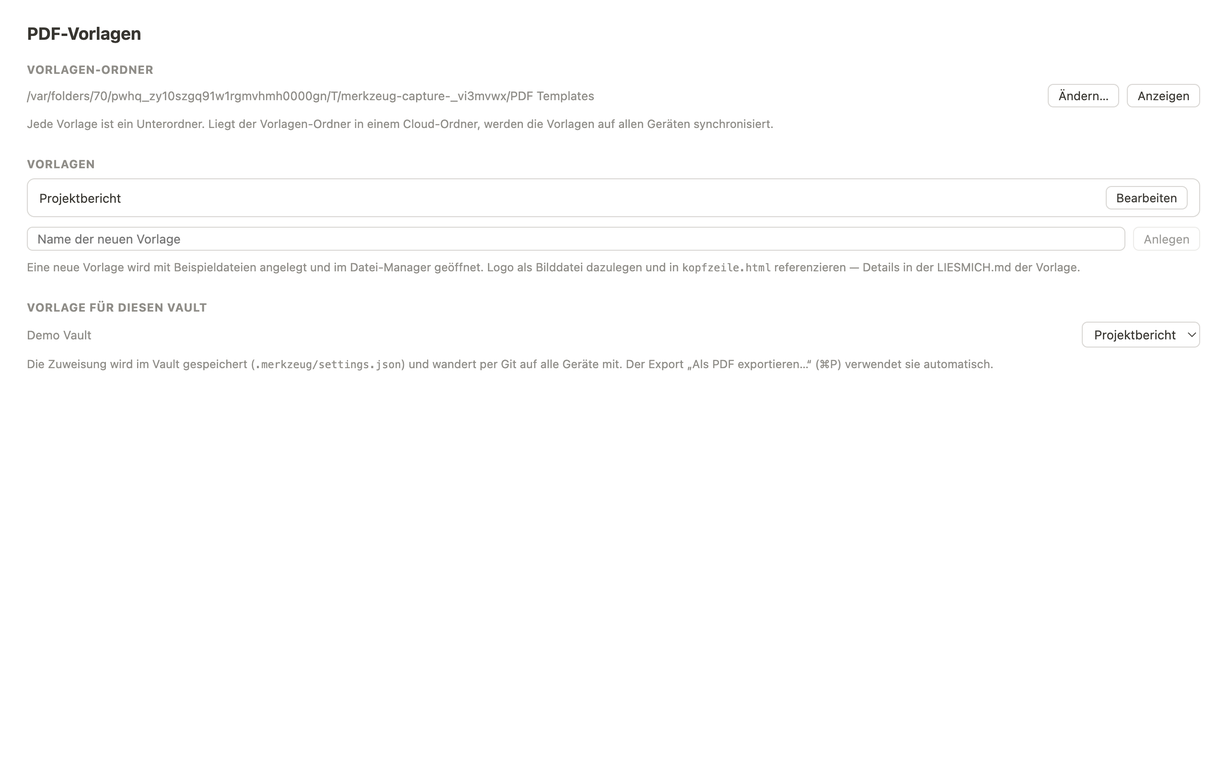
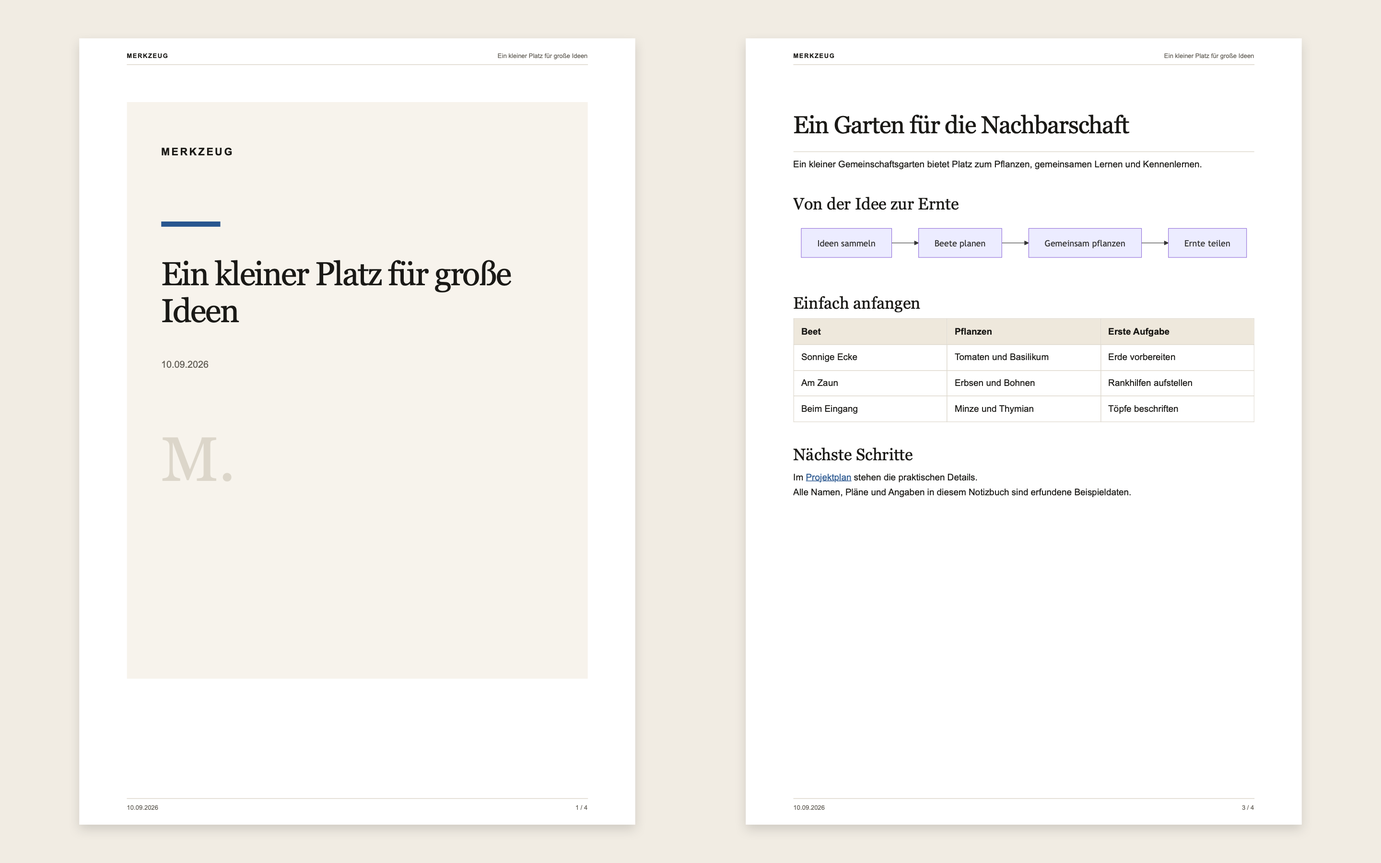
Ship a styled PDF starter template and show actual PDF output

diff --git a/website/de.html b/website/de.html
@@ -1,5 +1,5 @@
 <!doctype html><html lang="de"><head><meta charset="utf-8"><meta name="viewport" content="width=device-width,initial-scale=1"><meta name="description" content="Durchsuche, verbinde und bearbeite Markdown-Sammlungen – vom persönlichen Notizbuch bis zur Dokumentation deiner Coding-Agenten."><title>Dein Markdown. Im Zusammenhang. · Merkzeug</title><link rel="stylesheet" href="style.css"><link rel="icon" href="assets/icon.png"><link rel="canonical" href="https://merkzeug.creative-it.com/de.html"><meta property="og:title" content="Dein Markdown. Im Zusammenhang. · Merkzeug"><meta property="og:description" content="Durchsuche, verbinde und bearbeite Markdown-Sammlungen – vom persönlichen Notizbuch bis zur Dokumentation deiner Coding-Agenten."><meta property="og:type" content="website"><meta property="og:image" content="https://merkzeug.creative-it.com/assets/mac-de.png"></head><body><a class="skip" href="#content">Zum Inhalt</a><header><a class="brand" href="de.html"><img src="assets/icon.png" alt="" width="36" height="36"><strong>Merkzeug</strong></a><nav aria-label="Hauptnavigation"><a href="help-de.html">Hilfe</a><a href="https://support.apps.creative-it.com/?app=merkzeug&amp;lang=de">Support</a><a href="index.html" lang="en">English</a></nav></header><main id="content" class=""><section class="hero"><div class="eyebrow">In Entwicklung · Erste App-Store-Version in Vorbereitung</div><h1>Dein Markdown. Im Zusammenhang.</h1><p class="lead">Durchsuche, verbinde und bearbeite Markdown-Sammlungen – vom persönlichen Notizbuch bis zur Dokumentation deiner Coding-Agenten.</p><p>Finde dich in einer Sammlung von Dateien zurecht. Folge Links, lies Diagramme und bearbeite Inhalte visuell. Deine Notizen bleiben in den Ordnern und Repositories, zu denen sie gehören.</p><div class="actions"><a class="button" href="help-de.html">Merkzeug kennenlernen</a><a class="button secondary" href="#platforms">Mac · iPhone · iPad</a></div></section><section id="name" class="feature-section"><p class="eyebrow">Der Gedanke hinter dem Namen</p><h2>Ein Werkzeug fürs Merken.</h2><p><strong>Merken + Werkzeug = Merkzeug.</strong> Für Gedanken, die du festhalten, wiederfinden und weiterentwickeln möchtest. Aus vielen Markdown-Dateien wird eine Sammlung, in der du dich zurechtfindest.</p></section><section id="collections" class="feature-section"><h2>Ein Werkzeug. Zwei Ausgangspunkte.</h2><div class="grid two"><article><h3>Dein persönliches Notizbuch</h3><p>Gedanken, Projekte und Meeting-Notizen bilden eine Sammlung, die mit dir wächst. Nutze einen Ordner als Notizbuch, verknüpfe seine Notizen und halte ihren Kontext im Frontmatter fest. Dafür brauchst du kein Git-Repository.</p></article><article><h3>Dein Repository als Wissenssammlung</h3><p>READMEs, Architekturentscheidungen, Pläne und Agenten-Dokumentation liegen bereits neben deinem Code. Navigiere und bearbeite sie dort, wo sie sind. Links und integrierte Diagramme machen ihre Zusammenhänge sichtbar.</p></article></div><p>Merkzeug ist ein Lese- und Bearbeitungswerkzeug für deine Markdown-Sammlungen. Es erzeugt selbst keine Dokumentation und führt keinen Coding-Agenten aus.</p></section><nav class="section-nav" aria-label="Funktionen entdecken"><a href="#repositories">Repositories</a><a href="#pdf">PDF &amp; Vorlagen</a><a href="#frontmatter">Frontmatter</a><a href="#calendar">Kalender</a><a href="#ios-git">Git auf iOS</a><a href="#platforms">Plattformen</a><a href="#roadmap">Roadmap</a><a href="release-notes-de.html">Release Notes</a></nav><figure style="margin:0"><img class="preview" src="assets/mac-de.png" width="2560" height="1600" alt="Entwicklungsvorschau von Merkzeug auf dem Mac mit erfundenen Notizen"><figcaption>Entwicklungsvorschau von Merkzeug auf dem Mac mit erfundenen Notizen</figcaption></figure><div class="grid"><article><h2>Klar schreiben</h2><p>Überschriften, Listen, Aufgaben, Tabellen und Bilder — visuell bearbeiten, als Markdown speichern.</p></article><article><h2>Gedanken verbinden</h2><p>Verknüpfe Notizen und stelle Abläufe als Mermaid-Diagramme dar. Deine Ordner bleiben deine Struktur.</p></article><article><h2>Als PDF teilen</h2><p>Auf dem Mac exportierst du eine Notiz oder verknüpfte Notizen mit wiederverwendbaren PDF-Vorlagen.</p></article></div><section id="repositories" class="feature-section"><p class="eyebrow">Vom Repository zum lesbaren Zusammenhang</p><h2>Deine Agenten schreiben Markdown. Du erkennst den Zusammenhang.</h2><p class="lead">Architekturübersichten, Umsetzungspläne, Recherchen und Projektübergaben gehören zum Code. Merkzeug macht sie angenehm lesbar.</p><p>Öffne den Dokumentationsordner deines Repositorys, folge Verweisen zwischen Notizen und lies Mermaid-Diagramme direkt im Dokument. Überschriften, Tabellen und Aufgabenlisten geben erzeugten Markdown-Dateien eine klare Struktur. Prüfe das Ergebnis, ergänze Erklärungen und behalte deinen gewohnten Git-Workflow.</p><p>Zum Beispiel: Starte mit einer Übersicht, folge dem Link zu einer Architekturentscheidung, sieh dir das eingebettete Ablaufdiagramm an und exportiere am Desktop die Übersicht samt ausgewählten verlinkten Notizen als PDF.</p><figure><a href="assets/macos-de-diagram.png"><img class="preview" src="assets/macos-de-diagram.png" width="2560" height="1600" loading="lazy" alt="Mac-Entwicklungsvorschau mit einem Mermaid-Ablaufdiagramm in einer Projektnotiz"></a><figcaption>Das Diagramm ist Teil der Notiz. Mac-Entwicklungsvorschau mit erfundenen Beispieldaten; Bild anklicken für die volle Größe.</figcaption></figure><h3>Änderungen mit Git festhalten.</h3><p>Der Git-Bereich am Desktop zeigt den aktuellen Branch und geänderte Dateien und bietet Commit, Push und Pull. Auf iPhone und iPad übernimmt Working Copy die Git-Aktionen, während Merkzeug die gemeinsamen Dateien bearbeitet.</p><figure class="feature-shot"><a href="assets/macos-de-git.png"><img class="preview" src="assets/macos-de-git.png" width="2560" height="1600" loading="lazy" decoding="async" alt="Git-Bereich mit dem Branch main, einer geänderten Markdown-Datei und Aktionen für Commit, Push und Pull"></a><figcaption>Mac · Geänderte Dateien sehen und Git direkt im Notizbuch verwenden. Der Screenshot zeigt ein lokales Demo-Repository.</figcaption></figure></section>
-<section id="pdf" class="feature-section"><p class="eyebrow">PDF-Export &amp; Vorlagen · Desktop und IntelliJ-Vorschau</p><h2>Aus Arbeitsnotizen werden Dokumente zum Weitergeben.</h2><div class="grid two"><article><h3>Eine Notiz. Oder mehrere verknüpfte Dokumente.</h3><p>Exportiere eine einzelne Notiz oder hänge direkt verlinkte Markdown-Dokumente aus ihrer Ordnerhierarchie an. Verweise auf enthaltene Dokumente werden zu PDF-Sprungzielen. Ergänze ein anklickbares Inhaltsverzeichnis und einen eigenen Titel für das gemeinsame Dokument.</p><p>Mermaid-Diagramme werden vor dem Export gerendert. Breite Tabellen lösen eine Ausgabe im Querformat aus. Am Desktop kannst du auch mehrere ausgewählte Notizen als einzelne PDFs exportieren.</p></article><article><h3>Ein wiederverwendbares Layout pro Projekt.</h3><p>Gestalte Vorlagen mit Deckblatt, Logo, Kopf- und Fußzeilen, CSS und Seitenrändern. Füge Dokumenttitel, Datum und Seitenzahlen ein. Am Desktop ordnest du einem Notizbuch eine Vorlage zu; in IntelliJ wählst du einen Vorlagenordner für das Projekt.</p><p>Vorlagen sind gewöhnliche Dateien und lassen sich mit Git versionieren. Der PDF-Export läuft lokal. Auf iPhone und iPad ist er noch nicht verfügbar.</p></article></div><details><summary>Was gehört in eine PDF-Vorlage?</summary><p>Eine Vorlage ist ein Ordner mit diesen optionalen Dateien:</p><ul><li><code>deckblatt.html</code> — Deckblatt</li><li><code>kopfzeile.html</code> und <code>fusszeile.html</code> — Kopf- und Fußzeile</li><li><code>stil.css</code> — Dokumentgestaltung</li><li><code>vorlage.json</code> — Seitenränder</li></ul><p>Lege Logos im selben Ordner ab und verweise mit relativen Bildpfaden darauf. <code>{{titel}}</code> und <code>{{datum}}</code> setzen Titel und Exportdatum ein.</p></details><p><a href="help-de.html">PDF-Export und Vorlagen im Desktop-Handbuch kennenlernen →</a></p><figure class="feature-shot"><a href="assets/macos-de-pdf.png"><img class="preview" src="assets/macos-de-pdf.png" width="2560" height="1600" loading="lazy" decoding="async" alt="PDF-Vorlagen-Einstellungen mit einer dem Demo-Notizbuch zugewiesenen Projektbericht-Vorlage"></a><figcaption>Mac · Eine wiederverwendbare PDF-Vorlage für dein Notizbuch auswählen. Screenshot in voller Größe öffnen.</figcaption></figure></section>
+<section id="pdf" class="feature-section"><p class="eyebrow">PDF-Export &amp; Vorlagen · Desktop und IntelliJ-Vorschau</p><h2>Aus Arbeitsnotizen werden Dokumente zum Weitergeben.</h2><div class="grid two"><article><h3>Eine Notiz. Oder mehrere verknüpfte Dokumente.</h3><p>Exportiere eine einzelne Notiz oder hänge direkt verlinkte Markdown-Dokumente aus ihrer Ordnerhierarchie an. Verweise auf enthaltene Dokumente werden zu PDF-Sprungzielen. Ergänze ein anklickbares Inhaltsverzeichnis und einen eigenen Titel für das gemeinsame Dokument.</p><p>Mermaid-Diagramme werden vor dem Export gerendert. Breite Tabellen lösen eine Ausgabe im Querformat aus. Am Desktop kannst du auch mehrere ausgewählte Notizen als einzelne PDFs exportieren.</p></article><article><h3>Ein wiederverwendbares Layout pro Projekt.</h3><p>Gestalte Vorlagen mit Deckblatt, Logo, Kopf- und Fußzeilen, CSS und Seitenrändern. Füge Dokumenttitel, Datum und Seitenzahlen ein. Am Desktop ordnest du einem Notizbuch eine Vorlage zu; in IntelliJ wählst du einen Vorlagenordner für das Projekt.</p><p>Vorlagen sind gewöhnliche Dateien und lassen sich mit Git versionieren. Der PDF-Export läuft lokal. Auf iPhone und iPad ist er noch nicht verfügbar.</p></article></div><p>Starte mit der mitgelieferten Merkzeug-Vorlage. Passe eine Kopie an deine Farben und dein Logo an oder nutze die enthaltene Anleitung mit einem Agenten.</p><details><summary>Was gehört in eine PDF-Vorlage?</summary><p>Eine Vorlage ist ein Ordner mit diesen optionalen Dateien:</p><ul><li><code>deckblatt.html</code> — Deckblatt</li><li><code>kopfzeile.html</code> und <code>fusszeile.html</code> — Kopf- und Fußzeile</li><li><code>stil.css</code> — Dokumentgestaltung</li><li><code>vorlage.json</code> — Seitenränder</li></ul><p>Lege Logos im selben Ordner ab und verweise mit relativen Bildpfaden darauf. <code>{{titel}}</code> und <code>{{datum}}</code> setzen Titel und Exportdatum ein.</p></details><p><a href="help-de.html">PDF-Export und Vorlagen im Desktop-Handbuch kennenlernen →</a></p><figure class="feature-shot"><a href="assets/macos-de-pdf.png"><img class="preview" src="assets/macos-de-pdf.png" width="2880" height="1800" loading="lazy" decoding="async" alt="Deckblatt und Diagrammseite eines mit der Merkzeug-Vorlage exportierten PDFs"></a><figcaption>Echtes PDF-Ergebnis · Deckblatt und verlinkte Projektnotiz, exportiert mit der mitgelieferten Merkzeug-Vorlage. Bild für die volle Größe auswählen.</figcaption></figure></section>
 <section id="frontmatter" class="feature-section"><p class="eyebrow">Frontmatter</p><h2>Gib deinen Notizen Kontext.</h2><div class="grid two"><div><p>Strukturierte Metadaten stehen am Anfang deiner Markdown-Datei. Klappe den Frontmatter-Bereich auf, bearbeite YAML und ergänze Felder für Titel, Tags oder eigene Projektinformationen.</p><p>Auch die Exporteinstellungen bleiben beim Dokument: <code>pdf-linked-title</code> benennt das gemeinsame PDF, <code>pdf-toc</code> aktiviert sein Inhaltsverzeichnis, <code>pdf-exclude</code> lässt ausgewählte verlinkte Notizen aus und <code>language</code> bestimmt die Sprache der Inhaltsüberschrift.</p></div><div><pre aria-label="Beispiel für YAML-Frontmatter"><code>---
 title: Systemübersicht
 tags: [architektur, review]

diff --git a/website/index.html b/website/index.html
@@ -1,5 +1,5 @@
 <!doctype html><html lang="en"><head><meta charset="utf-8"><meta name="viewport" content="width=device-width,initial-scale=1"><meta name="description" content="Explore and edit Markdown collections — from personal notebooks to documentation written by coding agents."><title>Your Markdown. Connected. · Merkzeug</title><link rel="stylesheet" href="style.css"><link rel="icon" href="assets/icon.png"><link rel="canonical" href="https://merkzeug.creative-it.com/"><meta property="og:title" content="Your Markdown. Connected. · Merkzeug"><meta property="og:description" content="Explore and edit Markdown collections — from personal notebooks to documentation written by coding agents."><meta property="og:type" content="website"><meta property="og:image" content="https://merkzeug.creative-it.com/assets/mac-en.png"></head><body><a class="skip" href="#content">Skip to content</a><header><a class="brand" href="index.html"><img src="assets/icon.png" alt="" width="36" height="36"><strong>Merkzeug</strong></a><nav aria-label="Main navigation"><a href="help-en.html">Help</a><a href="https://support.apps.creative-it.com/?app=merkzeug&amp;lang=en">Support</a><a href="de.html" lang="de">Deutsch</a></nav></header><main id="content" class=""><section class="hero"><div class="eyebrow">In development · First App Store release in preparation</div><h1>Your Markdown. Connected.</h1><p class="lead">Explore and edit Markdown collections — from personal notebooks to documentation written by coding agents.</p><p>Find your way through a collection of files. Follow links, read diagrams and edit visually. Your notes stay in the folders and repositories where they belong.</p><div class="actions"><a class="button" href="help-en.html">Explore the guide</a><a class="button secondary" href="#platforms">Mac · iPhone · iPad</a></div></section><section id="name" class="feature-section"><p class="eyebrow">The name behind the tool</p><h2>Merkzeug — a tool for thoughts worth keeping.</h2><p>The name brings together the German words <em>merken</em> — to remember — and <em>Werkzeug</em> — tool. A tool for keeping ideas, finding them again and making something of them.</p></section><section id="collections" class="feature-section"><h2>One tool. Two places to begin.</h2><div class="grid two"><article><h3>Your personal notebook</h3><p>Ideas, projects and meeting notes form a collection that grows with you. Use a folder as your notebook, connect its notes and keep their context with frontmatter. No Git repository is required.</p></article><article><h3>Your repository as a knowledge collection</h3><p>READMEs, architecture decisions, plans and agent-written documentation already live beside your code. Navigate and edit them where they are, using links and integrated diagrams to see how they fit together.</p></article></div><p>Merkzeug is a reader and editor for your Markdown collections. It does not generate documentation or run a coding agent.</p></section><nav class="section-nav" aria-label="Explore features"><a href="#repositories">Repositories</a><a href="#pdf">PDF &amp; Templates</a><a href="#frontmatter">Frontmatter</a><a href="#calendar">Calendar</a><a href="#ios-git">Git on iOS</a><a href="#platforms">Platforms</a><a href="#roadmap">Roadmap</a><a href="release-notes-en.html">Release notes</a></nav><figure style="margin:0"><img class="preview" src="assets/mac-en.png" width="2560" height="1600" alt="Development preview of Merkzeug on Mac with fictional notes"><figcaption>Development preview of Merkzeug on Mac with fictional notes</figcaption></figure><div class="grid"><article><h2>Write with clarity</h2><p>Headings, lists, tasks, tables and images — with visual editing and Markdown underneath.</p></article><article><h2>Connect your thinking</h2><p>Link notes and turn processes into Mermaid diagrams. Your folders remain your structure.</p></article><article><h2>Share as a PDF</h2><p>On Mac, export a note or a collection of linked notes with reusable PDF templates.</p></article></div><section id="repositories" class="feature-section"><p class="eyebrow">From your repository to a readable story</p><h2>Your agents write Markdown. You make sense of it.</h2><p class="lead">Architecture overviews, implementation plans, research and project handovers belong beside the code. Merkzeug makes them comfortable to read.</p><p>Open your repository’s documentation folder, follow links between notes and read Mermaid diagrams directly in the document. Headings, tables and task lists give generated Markdown a clear visual structure. Review the result, edit the explanation and keep the files in your existing Git workflow.</p><p>For example: start with an overview, follow a link to a design decision, inspect its embedded flowchart, then export the overview and selected linked notes as a PDF on desktop.</p><figure><a href="assets/macos-en-diagram.png"><img class="preview" src="assets/macos-en-diagram.png" width="2560" height="1600" loading="lazy" alt="Mac development preview showing a Mermaid flowchart inside a project note"></a><figcaption>A diagram is part of the note. Mac development preview with fictional demo content; select the image to see it full size.</figcaption></figure><h3>Keep changes in Git.</h3><p>The desktop Git panel shows the current branch and changed files, with commit, push and pull actions. On iPhone and iPad, Working Copy handles Git while Merkzeug edits the shared files.</p><figure class="feature-shot"><a href="assets/macos-en-git.png"><img class="preview" src="assets/macos-en-git.png" width="2560" height="1600" loading="lazy" decoding="async" alt="Git panel showing the main branch, a changed Markdown file and commit, push and pull controls"></a><figcaption>Mac · Review changed files and use Git from your notebook. The screenshot uses a local demo repository.</figcaption></figure></section>
-<section id="pdf" class="feature-section"><p class="eyebrow">PDF export &amp; templates · Desktop and IntelliJ preview</p><h2>Turn working notes into a document worth sharing.</h2><div class="grid two"><article><h3>One note. Or a linked document set.</h3><p>Export a single note or append directly linked Markdown documents from its folder hierarchy. Links to included documents become PDF destinations. Add a clickable table of contents and give the combined document its own title.</p><p>Mermaid diagrams render before export. Wide tables trigger landscape output. Desktop also lets you export several selected notes as individual PDFs.</p></article><article><h3>A reusable look for each project.</h3><p>Build a template with a cover, logo, page headers, footers, CSS and page margins. Include the document title, date and page numbers. On desktop, assign a template to a notebook; in IntelliJ, select a template folder for the project.</p><p>Templates are ordinary files, so you can version them alongside your work. PDF export runs locally. It is not yet available on iPhone or iPad.</p></article></div><details><summary>What goes into a PDF template?</summary><p>Each template is a folder containing any of these optional files. The filenames retain their German names for compatibility.</p><ul><li><code>deckblatt.html</code> — cover page</li><li><code>kopfzeile.html</code> and <code>fusszeile.html</code> — page header and footer</li><li><code>stil.css</code> — document styling</li><li><code>vorlage.json</code> — page margins</li></ul><p>Keep logos in that folder and reference them with relative image paths. Use <code>{{titel}}</code> and <code>{{datum}}</code> for the title and export date.</p></details><p><a href="help-en.html">Explore PDF export and template setup in the desktop guide →</a></p><figure class="feature-shot"><a href="assets/macos-en-pdf.png"><img class="preview" src="assets/macos-en-pdf.png" width="2560" height="1600" loading="lazy" decoding="async" alt="PDF template settings with a Project report template assigned to the demo notebook"></a><figcaption>Mac · Choose a reusable PDF template for your notebook. Open the screenshot at full size.</figcaption></figure></section>
+<section id="pdf" class="feature-section"><p class="eyebrow">PDF export &amp; templates · Desktop and IntelliJ preview</p><h2>Turn working notes into a document worth sharing.</h2><div class="grid two"><article><h3>One note. Or a linked document set.</h3><p>Export a single note or append directly linked Markdown documents from its folder hierarchy. Links to included documents become PDF destinations. Add a clickable table of contents and give the combined document its own title.</p><p>Mermaid diagrams render before export. Wide tables trigger landscape output. Desktop also lets you export several selected notes as individual PDFs.</p></article><article><h3>A reusable look for each project.</h3><p>Start with the included Merkzeug template, then adapt its cover, page headers, footers, CSS and margins. Add your logo or let an agent customize a copy using the included guide. Include the document title, date and page numbers. On desktop, assign a template to a notebook; in IntelliJ, select a template folder for the project.</p><p>Templates are ordinary files, so you can version them alongside your work. PDF export runs locally. It is not yet available on iPhone or iPad.</p></article></div><details><summary>What goes into a PDF template?</summary><p>Each template is a folder containing any of these optional files. The filenames retain their German names for compatibility.</p><ul><li><code>deckblatt.html</code> — cover page</li><li><code>kopfzeile.html</code> and <code>fusszeile.html</code> — page header and footer</li><li><code>stil.css</code> — document styling</li><li><code>vorlage.json</code> — page margins</li></ul><p>Keep logos in that folder and reference them with relative image paths. Use <code>{{titel}}</code> and <code>{{datum}}</code> for the title and export date.</p></details><p><a href="help-en.html">Explore PDF export and template setup in the desktop guide →</a></p><figure class="feature-shot"><a href="assets/macos-en-pdf.png"><img class="preview" src="assets/macos-en-pdf.png" width="2880" height="1800" loading="lazy" decoding="async" alt="Cover and diagram page from a PDF exported with the bundled Merkzeug template"></a><figcaption>Actual PDF output · A cover and linked project note, exported with the included Merkzeug template. Select the image to see it full size.</figcaption></figure></section>
 <section id="frontmatter" class="feature-section"><p class="eyebrow">Frontmatter</p><h2>Give your notes context.</h2><div class="grid two"><div><p>Keep structured metadata at the top of your Markdown file. Expand the frontmatter panel to edit YAML and add fields for titles, tags or your own project information.</p><p>Export settings live with the document too: <code>pdf-linked-title</code> names a combined PDF, <code>pdf-toc</code> enables its contents page, <code>pdf-exclude</code> leaves selected linked notes out, and <code>language</code> controls the contents heading’s language.</p></div><div><pre aria-label="Example YAML frontmatter"><code>---
 title: System overview
 tags: [architecture, review]

diff --git a/crossplatform/src/main/templates.ts b/crossplatform/src/main/templates.ts
@@ -3,6 +3,7 @@ import { app } from 'electron'
 import { existsSync, mkdirSync, readdirSync, readFileSync, writeFileSync } from 'node:fs'
 import { dirname, extname, join } from 'node:path'
 import type { PdfTemplate, PdfTemplateMargins } from '../shared/types'
+import { installTemplate } from './templateFiles.mjs'
 import { getStoredTemplatesRoot } from './settings'
 
 /** Ränder, wenn Kopf-/Fußzeile Platz brauchen und die Vorlage nichts vorgibt (mm) */
@@ -30,6 +31,7 @@ export function templatesRoot(): string {
 
 export function listTemplates(): string[] {
   try {
+    try { ensureStarterTemplate() } catch { /* Read-only roots may still contain usable templates. */ }
     return readdirSync(templatesRoot(), { withFileTypes: true })
       .filter((e) => e.isDirectory() && !e.name.startsWith('.'))
       .map((e) => e.name)
@@ -108,40 +110,16 @@ export function loadTemplate(name: string): PdfTemplate | null {
   return template
 }
 
-const DEFAULT_HEADER = `<!-- Header: use inline CSS. Relative image URLs are embedded on export. -->
-<div style="width:100%;margin:0 10mm;font:9px Arial;color:#666;display:flex;justify-content:space-between">
-  <span>{{titel}}</span><span>Your organization</span>
-</div>`
-const DEFAULT_FOOTER = `<div style="width:100%;margin:0 10mm;font:9px Arial;color:#666;display:flex;justify-content:space-between">
-  <span>{{datum}}</span><span>Page <span class="pageNumber"></span> of <span class="totalPages"></span></span>
-</div>`
-const DEFAULT_COVER_EXAMPLE = `<!-- Rename to deckblatt.html to enable this cover. -->
-<div class="cover" style="padding-top:70mm;text-align:center;font-family:Arial,sans-serif">
-  <h1>{{titel}}</h1><p>{{datum}}</p>
-</div>`
-const DEFAULT_CSS = `/* Optional PDF content styles, for example:
-.pdf-content .milkdown .ProseMirror { font-size: 11pt; }
-html.pdf-landscape .cover { padding-top: 30mm !important; }
-*/`
-const DEFAULT_CONFIG = '{"margins":{"top":24,"bottom":18,"left":10,"right":10}}\n'
-const DEFAULT_README = `# Merkzeug PDF template
+/** Bundled source stays read-only; user copies are never upgraded in place. */
+function starterDirectory(): string {
+  return app.isPackaged
+    ? join(process.resourcesPath, 'pdf-templates', 'Merkzeug')
+    : join(app.getAppPath(), '..', 'resources', 'pdf-templates', 'Merkzeug')
+}
 
-All files are optional. Existing German filenames remain part of the file format:
-
-- kopfzeile.html: page header
-- fusszeile.html: page footer
-- deckblatt.html: cover page (rename deckblatt-beispiel.html to enable it)
-- stil.css: additional content styles
-- vorlage.json: page margins in millimetres
-
-HTML placeholders: {{titel}} is the export title; {{datum}} is the export date.
-Use pageNumber and totalPages span classes in headers and footers for page numbers.
-Place logo images here and reference them with relative URLs. Headers and footers
-require inline CSS. Use html.pdf-landscape in stil.css for landscape-specific rules.
-
-Assign this template through Merkzeug Settings, or choose this folder in IntelliJ.
-Desktop assignments are stored in .merkzeug/settings.json inside the vault.
-`
+function ensureStarterTemplate(): void {
+  installTemplate(starterDirectory(), join(templatesRoot(), 'Merkzeug'))
+}
 
 /** Legt eine neue Vorlage mit Beispieldateien an. Wirft bei Namenskonflikt. */
 export function createTemplate(name: string): string {
@@ -151,13 +129,7 @@ export function createTemplate(name: string): string {
   }
   const dir = join(templatesRoot(), clean)
   if (existsSync(dir)) throw new Error(`${translate("The template “")}${clean}${translate("” already exists.")}`)
-  mkdirSync(dir, { recursive: true })
-  writeFileSync(join(dir, 'kopfzeile.html'), DEFAULT_HEADER)
-  writeFileSync(join(dir, 'fusszeile.html'), DEFAULT_FOOTER)
-  writeFileSync(join(dir, 'deckblatt-beispiel.html'), DEFAULT_COVER_EXAMPLE)
-  writeFileSync(join(dir, 'stil.css'), DEFAULT_CSS)
-  writeFileSync(join(dir, 'vorlage.json'), DEFAULT_CONFIG)
-  writeFileSync(join(dir, 'README.md'), DEFAULT_README)
+  installTemplate(starterDirectory(), dir)
   return dir
 }
 

diff --git a/website/help-de.html b/website/help-de.html
@@ -465,4 +465,13 @@ Fehlermeldung ab statt zu warten.</li>
 <h2 id="support-und-rückmeldungen">Support und Rückmeldungen</h2>
 <p>Wähle <strong>Hilfe → Support kontaktieren…</strong>, um das Supportformular mit Merkzeug, Sprache, Variante und App-Version zu öffnen. Die App-Informationen kannst du vor dem Senden abwählen. Notizinhalte und Dateipfade werden nicht automatisch angehängt.</p>
 <p><a href="https://support.apps.creative-it.com/?app=merkzeug&lang=de">Merkzeug App Support kontaktieren</a>. Nenne App-Version, Betriebssystem und Schritte zum Nachstellen des Problems. Verwende fiktive Beispiele und sende keine vertraulichen Notizen.</p>
+<h2 id="pdf-startvorlage">PDF-Startvorlage</h2>
+<p>Merkzeug enthält die fertige PDF-Vorlage <strong>Merkzeug</strong>: ein Deckblatt in warmem Papierweiß, Serifenschrift für Überschriften, blaue Akzente, Kopfzeilen und nummerierte Fußzeilen. Wähle sie unter <strong>Einstellungen → Vorlage für diesen Vault</strong> aus. Bestehende Vaults behalten ihre Auswahl, auch <strong>Keine Vorlage</strong>. <strong>Erstellen</strong> legt eine bearbeitbare Kopie unter einem neuen Namen an; <strong>Bearbeiten</strong> öffnet ihren Ordner. App-Updates überschreiben deine Anpassungen nicht. Auch in einem neu gewählten Vorlagenordner wird die Standardvorlage bereitgestellt, sofern er beschreibbar ist.</p>
+<p>Entferne <code>deckblatt.html</code> oder benenne die Datei um, wenn du kein Deckblatt möchtest. Passe <code>stil.css</code> für Dokumentstile sowie <code>kopfzeile.html</code> / <code>fusszeile.html</code> für Inline-Stile der Kopf- und Fußzeilen an. Die Seitenränder stehen in <code>vorlage.json</code>. Die deutschen Dateinamen und Platzhalter <code>{{titel}}</code> / <code>{{datum}}</code> gehören zum gemeinsamen Dateiformat. Lege Logos im Vorlagenordner ab und verwende relative Bildpfade. Die Vorlage funktioniert auch in IntelliJ: <strong>PDF-Vorlage…</strong> öffnet zunächst den mitgelieferten Vorlagenordner, wenn keine andere Vorlage ausgewählt ist. Auf iOS ist PDF-Export noch nicht verfügbar.</p>
+<h3 id="vorlage-mit-einem-agenten-anpassen">Vorlage mit einem Agenten anpassen</h3>
+<p>Erstelle zuerst eine Kopie und übergib dem Agenten diesen Ordner mit folgendem Prompt:</p>
+<blockquote>
+<p>Lies README.md und alle fünf Vorlagendateien in diesem Ordner. Passe diese Kopie an meinen Stil an: [FARBEN], [SCHRIFTEN] und [LOKALER LOGO-PFAD]. Behalte Dateinamen, Titel-/Datumsplatzhalter und Chromium-Seitennummern bei. Verwende Inline-CSS für Kopf-/Fußzeilen und begrenze Dokumentstile auf PDF-Selektoren. Nutze lokale Dateien, keine Skripte oder Netzwerkabhängigkeiten. Unterstütze A4 im Hoch- und Querformat ohne abgeschnittene Inhalte. Dokumentiere Änderungen in README.md. Exportiere zur Prüfung Notizen mit langem Titel, Überschriften, Links, Code, einer Tabelle und einem Diagramm und kontrolliere jede PDF-Seite.</p>
+</blockquote>
+<p>Die README der Vorlage enthält das Dateiformat und einen wiederverwendbaren Prompt. Prüfe das Ergebnis durch einen Export in Merkzeug: Eine Browser-Vorschau allein prüft keine Seitenumbrüche. <strong>Vorlagen-Anleitung und Agenten-Prompt</strong> in den Einstellungen öffnet diesen Abschnitt der Online-Hilfe; dieselbe Anleitung findest du auch in der Offline-Hilfe der App.</p>
 </main><footer><span>© 2026 creative-it Software Consulting e.U.</span><nav aria-label="Weitere Links"><a href="release-notes-de.html">Release Notes</a><a href="privacy-de.html">Datenschutz</a><a href="legal-de.html">Impressum</a><a href="https://apps.creative-it.com/">Weitere Apps</a><a href="https://www.creative-it.com/">creative-it</a></nav></footer></body></html>

diff --git a/website/help-en.html b/website/help-en.html
@@ -452,4 +452,13 @@ message instead of hanging.</li>
 <h2 id="support-and-feedback">Support and feedback</h2>
 <p>Use <strong>Help → Contact Support…</strong> to open the support form with Merkzeug, your language, edition and app version selected. You can deselect the app details before sending. No note contents or file paths are attached automatically.</p>
 <p><a href="https://support.apps.creative-it.com/?app=merkzeug&lang=en">Contact Merkzeug App Support</a>. Include your app version, operating system and steps to reproduce the issue. Use fictional examples and avoid confidential notes.</p>
+<h2 id="pdf-template-starter">PDF template starter</h2>
+<p>Merkzeug ships a ready-to-use <strong>Merkzeug</strong> PDF template: a warm paper cover, serif headings, blue accents, page headers and numbered footers. In <strong>Settings → Template for this vault</strong>, select <strong>Merkzeug</strong>. Existing vaults keep their current selection, including <strong>No template</strong>. <strong>Create</strong> makes an editable copy under a new name; <strong>Edit</strong> opens its folder. Your changes are never overwritten by an app update. Changing the templates root makes the starter available there too, if the folder is writable.</p>
+<p>Remove or rename <code>deckblatt.html</code> to omit the cover. Customize <code>stil.css</code> for document styles and <code>kopfzeile.html</code> / <code>fusszeile.html</code> for inline header/footer styles. Margins are in <code>vorlage.json</code>. Keep the German filenames and <code>{{titel}}</code> / <code>{{datum}}</code> placeholders; they are the shared template format. Put logo images in the template folder and reference them using relative paths. The template works in IntelliJ too: <strong>PDF template…</strong> opens the bundled starter folder initially when no other template is selected. PDF export is not yet available on iOS.</p>
+<h3 id="adapt-a-template-with-an-agent">Adapt a template with an agent</h3>
+<p>Create a copy first, then give the agent that folder and this prompt:</p>
+<blockquote>
+<p>Read README.md and all five template files in this folder. Adapt this copy to my visual style: [COLORS], [FONTS] and [LOCAL LOGO PATH]. Preserve the filenames, title/date placeholders and Chromium page-number spans. Keep header/footer CSS inline and document CSS scoped to PDF selectors. Use local assets, no scripts or network dependencies. Support A4 portrait and landscape without clipping. Update README.md to explain the changes. Validate by exporting notes with a long title, headings, links, code, a table and a diagram; inspect every page of the resulting PDFs.</p>
+</blockquote>
+<p>The template README includes the full file-format reference and a reusable prompt. Export through Merkzeug to check the result: browser previews alone do not verify page breaks. The settings link <strong>Template guide and agent prompt</strong> opens this section of the online manual; the same instructions are also included in the app&#39;s offline help.</p>
 </main><footer><span>© 2026 creative-it Software Consulting e.U.</span><nav aria-label="Footer"><a href="release-notes-en.html">Release Notes</a><a href="privacy-en.html">Privacy</a><a href="legal-en.html">Legal notice</a><a href="https://apps.creative-it.com/">More apps</a><a href="https://www.creative-it.com/">creative-it</a></nav></footer></body></html>

diff --git a/store/automation/PdfSpread.swift b/store/automation/PdfSpread.swift
@@ -1,0 +1,40 @@
+// Render actual exported pages for the PDF screenshot. No simulated app UI.
+import AppKit
+import PDFKit
+
+guard CommandLine.arguments.count == 3,
+      let document = PDFDocument(url: URL(fileURLWithPath: CommandLine.arguments[1])),
+      document.pageCount >= 2 else { fatalError("Expected an exported PDF with a cover and content") }
+let width = 2880, height = 1800
+let bitmap = NSBitmapImageRep(bitmapDataPlanes: nil, pixelsWide: width, pixelsHigh: height,
+                             bitsPerSample: 8, samplesPerPixel: 4, hasAlpha: true, isPlanar: false,
+                             colorSpaceName: .deviceRGB, bytesPerRow: 0, bitsPerPixel: 0)!
+let context = NSGraphicsContext(bitmapImageRep: bitmap)!
+NSGraphicsContext.saveGraphicsState()
+NSGraphicsContext.current = context
+NSColor(calibratedRed: 0.933, green: 0.91, blue: 0.863, alpha: 1).setFill()
+NSRect(x: 0, y: 0, width: width, height: height).fill()
+let cg = context.cgContext
+for index in 0..<2 {
+    // Show the cover and the first linked document (diagram + table in our fixture).
+    let pageIndex = index == 0 ? 0 : (document.pageCount > 2 ? 2 : 1)
+    let page = document.page(at: pageIndex)!
+    let bounds = page.bounds(for: .mediaBox)
+    let slot = NSRect(x: 100 + index * 1390, y: 80, width: 1290, height: 1640)
+    let scale = min(slot.width / bounds.width, slot.height / bounds.height)
+    let frame = NSRect(x: slot.midX - bounds.width * scale / 2, y: slot.midY - bounds.height * scale / 2,
+                       width: bounds.width * scale, height: bounds.height * scale)
+    cg.saveGState()
+    cg.setShadow(offset: CGSize(width: 0, height: -10), blur: 24, color: CGColor(gray: 0, alpha: 0.14))
+    cg.setFillColor(CGColor(gray: 1, alpha: 1))
+    cg.fill(frame)
+    cg.restoreGState()
+    cg.saveGState()
+    cg.translateBy(x: frame.minX, y: frame.minY)
+    cg.scaleBy(x: scale, y: scale)
+    cg.translateBy(x: -bounds.minX, y: -bounds.minY)
+    page.draw(with: .mediaBox, to: cg)
+    cg.restoreGState()
+}
+NSGraphicsContext.restoreGraphicsState()
+try bitmap.representation(using: .png, properties: [:])!.write(to: URL(fileURLWithPath: CommandLine.arguments[2]))

diff --git a/resources/pdf-templates/Merkzeug/stil.css b/resources/pdf-templates/Merkzeug/stil.css
@@ -1,0 +1,22 @@
+/* Local fonts only. Keep PDF selectors scoped so the editor is unchanged. */
+.pdf-app { color: #1a1916; -webkit-print-color-adjust: exact; print-color-adjust: exact; }
+.merkzeug-cover { box-sizing: border-box; min-height: 235mm; padding: 18mm 14mm; background: #f7f3ec; position: relative; }
+.merkzeug-wordmark { font: bold 12pt Arial, sans-serif; letter-spacing: .16em; }
+.merkzeug-cover-rule { width: 24mm; height: 2mm; background: #28568f; margin: 26mm 0 12mm; }
+.merkzeug-cover h1 { font: normal 38pt/1.12 Georgia, 'Times New Roman', serif; letter-spacing: -.035em; overflow-wrap: anywhere; margin: 0 0 12mm; }
+.merkzeug-cover p { font: 11pt Arial, sans-serif; color: #5e5a52; }
+.merkzeug-cover-mark { margin-top: 22mm; color: #dcd6ca; font: 72pt Georgia, serif; }
+.pdf-content .milkdown .ProseMirror { font: 10.5pt/1.6 Arial, sans-serif; color: #1a1916; }
+.pdf-content .milkdown .ProseMirror :is(h1,h2,h3,h4), .pdf-toc-title { font-family: Georgia, 'Times New Roman', serif; font-weight: normal; color: #1a1916; break-after: avoid; }
+.pdf-content .milkdown .ProseMirror h1 { font-size: 28pt; line-height: 1.15; letter-spacing: -.025em; border-bottom: 1px solid #dcd6ca; padding-bottom: 5mm; }
+.pdf-content .milkdown .ProseMirror h2 { font-size: 19pt; line-height: 1.25; margin-top: 9mm; }
+.pdf-content .milkdown .ProseMirror h3 { font-size: 14pt; }
+.pdf-content .milkdown .ProseMirror a, .pdf-toc a { color: #28568f; }
+.pdf-content .milkdown .ProseMirror blockquote { border-left: 3px solid #28568f; background: #f7f3ec; color: #5e5a52; padding: 3mm 5mm; margin-left: 0; }
+.pdf-content .milkdown .ProseMirror :is(pre,code) { background: #f7f3ec; }
+.pdf-content .milkdown .ProseMirror th { background: #eee8dc; color: #1a1916; }
+.pdf-content .milkdown .ProseMirror :is(td,th) { border-color: #dcd6ca; padding: 2mm 3mm; }
+.pdf-content .milkdown .ProseMirror p { orphans: 3; widows: 3; }
+html.pdf-landscape .merkzeug-cover { min-height: 155mm; padding: 12mm; }
+html.pdf-landscape .merkzeug-cover-rule { margin-top: 12mm; }
+html.pdf-landscape .merkzeug-cover-mark { margin-top: 10mm; font-size: 44pt; }

diff --git a/scripts/tests/pdf-template.test.ts b/scripts/tests/pdf-template.test.ts
@@ -1,0 +1,25 @@
+import { test } from 'node:test'
+import assert from 'node:assert/strict'
+import { mkdtempSync, readFileSync, rmSync, writeFileSync, existsSync } from 'node:fs'
+import { tmpdir } from 'node:os'
+import { join } from 'node:path'
+import { fileURLToPath } from 'node:url'
+import { installTemplate } from '../../crossplatform/src/main/templateFiles.mts'
+
+const source = fileURLToPath(new URL('../../resources/pdf-templates/Merkzeug', import.meta.url))
+test('starter installs into a fresh root without overwriting user edits or restoring a disabled cover', () => {
+  const root = mkdtempSync(join(tmpdir(), 'merkzeug-template-'))
+  const target = join(root, 'templates', 'Merkzeug')
+  try {
+    assert.equal(installTemplate(source, target), true)
+    assert.match(readFileSync(join(target, 'deckblatt.html'), 'utf8'), /{{titel}}/)
+    writeFileSync(join(target, 'stil.css'), '/* my design */')
+    rmSync(join(target, 'deckblatt.html'))
+    assert.equal(installTemplate(source, target), false)
+    assert.equal(readFileSync(join(target, 'stil.css'), 'utf8'), '/* my design */')
+    assert.equal(existsSync(join(target, 'deckblatt.html')), false)
+    const copy = join(root, 'templates', 'My report')
+    assert.equal(installTemplate(source, copy), true)
+    assert.equal(readFileSync(join(copy, 'stil.css'), 'utf8'), readFileSync(join(source, 'stil.css'), 'utf8'))
+  } finally { rmSync(root, { recursive: true, force: true }) }
+})

diff --git a/crossplatform/src/renderer/src/SettingsApp.tsx b/crossplatform/src/renderer/src/SettingsApp.tsx
@@ -1,4 +1,4 @@
-import { t as translate } from '@merkzeug/core/i18n'
+import { t as translate, getLocale } from '@merkzeug/core/i18n'
 import { useCallback, useEffect, useState } from 'react'
 import type { TemplateState } from '../../shared/types'
 
@@ -46,6 +46,9 @@ export function SettingsApp(): React.JSX.Element {
 
   if (!state) return <div className="settings-app" />
 
+  const templateGuide = getLocale().toLowerCase().startsWith('de')
+    ? 'https://merkzeug.creative-it.com/help-de.html#pdf-startvorlage'
+    : 'https://merkzeug.creative-it.com/help-en.html#pdf-template-starter'
   const vaultName = state.vault?.split(/[/\\]/).pop() ?? null
 
   return (
@@ -96,8 +99,8 @@ export function SettingsApp(): React.JSX.Element {
           </button>
         </div>
         <p className="settings-hint">
-          {translate("Create a template with example header, footer, cover and style files, then open it in your file manager. Add a logo image and")}{' '}
-          <code>kopfzeile.html</code> {translate("reference it there. See the template README for details.")}
+          {translate("Merkzeug includes a styled PDF template. Create a copy to customize it with your own colors, logo or an agent.")}{' '}
+          <button onClick={() => void window.merkzeug.openExternal(templateGuide)}>{translate("Template guide and agent prompt")}</button>
         </p>
         {error && <p className="settings-error">{error}</p>}
       </section>

diff --git a/website/help-ios-de.html b/website/help-ios-de.html
@@ -71,4 +71,6 @@ nichts stillschweigend verloren.</li>
 <h2 id="support-und-rückmeldungen">Support und Rückmeldungen</h2>
 <p>Öffne <strong>Hilfe</strong> und wähle <strong>Support kontaktieren…</strong>, um das Supportformular mit Merkzeug, Sprache, Variante und App-Version zu öffnen. Die App-Informationen kannst du vor dem Senden abwählen. Notizinhalte und Dateipfade werden nicht automatisch angehängt.</p>
 <p><a href="https://support.apps.creative-it.com/?app=merkzeug&lang=de">Merkzeug App Support kontaktieren</a>. Nenne App-Version, Betriebssystem und Schritte zum Nachstellen des Problems. Verwende fiktive Beispiele und sende keine vertraulichen Notizen.</p>
+<h2 id="pdf-vorlagen-am-desktop">PDF-Vorlagen am Desktop</h2>
+<p>Desktop-App und IntelliJ enthalten die PDF-Startvorlage Merkzeug mit Deckblatt, gestalteten Überschriften und Seitennummern. Eine Kopie lässt sich mit einem Agenten anpassen. Siehe die <a href="https://merkzeug.creative-it.com/help-de.html#pdf-startvorlage">Vorlagen-Anleitung</a>. Auf iOS ist PDF-Export noch nicht verfügbar.</p>
 </main><footer><span>© 2026 creative-it Software Consulting e.U.</span><nav aria-label="Weitere Links"><a href="release-notes-de.html">Release Notes</a><a href="privacy-de.html">Datenschutz</a><a href="legal-de.html">Impressum</a><a href="https://apps.creative-it.com/">Weitere Apps</a><a href="https://www.creative-it.com/">creative-it</a></nav></footer></body></html>

diff --git a/website/help-ios-en.html b/website/help-ios-en.html
@@ -67,4 +67,6 @@ silently.</li>
 <h2 id="support-and-feedback">Support and feedback</h2>
 <p>Open <strong>Help</strong> and choose <strong>Contact Support…</strong> to open the support form with Merkzeug, your language, edition and app version selected. You can deselect the app details before sending. No note contents or file paths are attached automatically.</p>
 <p><a href="https://support.apps.creative-it.com/?app=merkzeug&lang=en">Contact Merkzeug App Support</a>. Include your app version, operating system and steps to reproduce the issue. Use fictional examples and avoid confidential notes.</p>
+<h2 id="pdf-templates-on-desktop">PDF templates on desktop</h2>
+<p>The desktop app and IntelliJ include the Merkzeug PDF starter template, with a cover, styled headings and numbered pages. Create a copy to adapt it with an agent. See the <a href="https://merkzeug.creative-it.com/help-en.html#pdf-template-starter">desktop template guide</a>. PDF export is not available on iOS yet.</p>
 </main><footer><span>© 2026 creative-it Software Consulting e.U.</span><nav aria-label="Footer"><a href="release-notes-en.html">Release Notes</a><a href="privacy-en.html">Privacy</a><a href="legal-en.html">Legal notice</a><a href="https://apps.creative-it.com/">More apps</a><a href="https://www.creative-it.com/">creative-it</a></nav></footer></body></html>

diff --git a/packages/core/src/locales/de.ts b/packages/core/src/locales/de.ts
@@ -1,5 +1,7 @@
 /** German translations; English message text is the stable source key. */
 export const de: Readonly<Record<string, string>> = {
+  "Merkzeug includes a styled PDF template. Create a copy to customize it with your own colors, logo or an agent.": "Merkzeug enthält eine gestaltete PDF-Vorlage. Erstelle eine Kopie für eigene Farben, ein Logo oder die Anpassung mit einem Agenten.",
+  "Template guide and agent prompt": "Vorlagen-Anleitung und Agenten-Prompt",
   "Organizer": "Organisator",
   "Attendees": "Teilnehmer",
   "Tasks": "Aufgaben",
